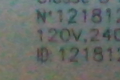
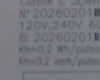
buscando o angulo correto para posicionamento de ID,numeração e imetro

diff --git a/src/config.py b/src/config.py
@@ -21,11 +21,16 @@ THRESHOLD_DUVIDA = 0.60     # Entre 0.60 e 0.85 é SEM CONFIANÇA. Abaixo é ERR
 CAMERA_ID = 0  # 0 para webcam integrada, 1 para USB externa
 
 # Coordenadas das Zonas de Inspeção (X, Y, Largura, Altura)
-# Ajuste estes valores conforme a posição do medidor na câmera
-ZONA_INMETRO = (250, 180, 120, 80)    # Ponto 2 (Logo INMETRO)
-ZONA_ELETRA = (250, 300, 120, 80)     # Ponto 3 (Logo Eletra)
-ZONA_SERIAL = (180, 480, 250, 40)     # Ponto 4 (Número de Série)
-ZONA_ID = (180, 520, 250, 40)         # Ponto 5 (ID do Medidor)
-ZONA_BARCODE = (300, 580, 300, 100)   # Ponto 5 (Código de Barras)
-ZONA_ENERGISA = (50, 600, 150, 80)    # Ponto 6 (Logo Energisa)
-ZONA_TERMINAIS = (550, 560, 250, 40)  # Outros modelos
+# Ajustadas após análise das capturas (Resolução 640x480)
+ZONA_INMETRO = (220, 100, 100, 80)     # Ponto 2 (Logo INMETRO)
+ZONA_ELETRA = (220, 220, 100, 80)      # Ponto 3 (Logo Eletra)
+ZONA_SERIAL = (300, 380, 300, 80)      # Ponto 4 (Número de Série Grande embaixo)
+ZONA_ID = (250, 310, 200, 40)          # Ponto 5 (Número menor no meio)
+ZONA_ENERGISA = (220, 350, 120, 80)    # Ponto 6 (Logo Amazonas/Energisa)
+ZONA_BARCODE = (0, 0, 50, 50)
+ZONA_TERMINAIS = (500, 400, 100, 80)
+ZONA_LOGO = ZONA_ENERGISA # Alias para compatibilidade
+
+
+
+

diff --git a/inspecao_industrial_v2.py b/inspecao_industrial_v2.py
@@ -12,10 +12,16 @@ def rodar_esteira_automatica():
         print("Erro ao abrir a câmera.")
         return
 
-    print("\n" + "="*50)
-    print("   SISTEMA DE ESTEIRA AUTOMÁTICA ATIVO")
-    print("   Aguardando detecção de medidor...")
     print("="*50)
+    
+    # Pegar resolução real
+    frame_teste = vision.capture_frame()
+    if frame_teste is not None:
+        h, w = frame_teste.shape[:2]
+        print(f"   Resolução Detectada: {w}x{h}")
+    else:
+        print("   Erro ao capturar frame de teste.")
+
 
     ultimo_frame_cinza = None
     tempo_estabilizado = 0
@@ -162,6 +168,9 @@ def rodar_esteira_automatica():
             for nome, zona in zonas_para_salvar.items():
                 x, y, w, h = zona
                 recorte = frame[y:y+h, x:x+w]
+                if recorte.size == 0:
+                    print(f"ERRO: Zona {nome} está fora dos limites da imagem ({frame.shape[1]}x{frame.shape[0]})")
+                    continue
                 caminho = os.path.join(REF_DIR, nome)
                 cv2.imwrite(caminho, recorte)
                 print(f"Salvo: {caminho}")
@@ -172,3 +181,4 @@ def rodar_esteira_automatica():
 
 if __name__ == "__main__":
     rodar_esteira_automatica()
+